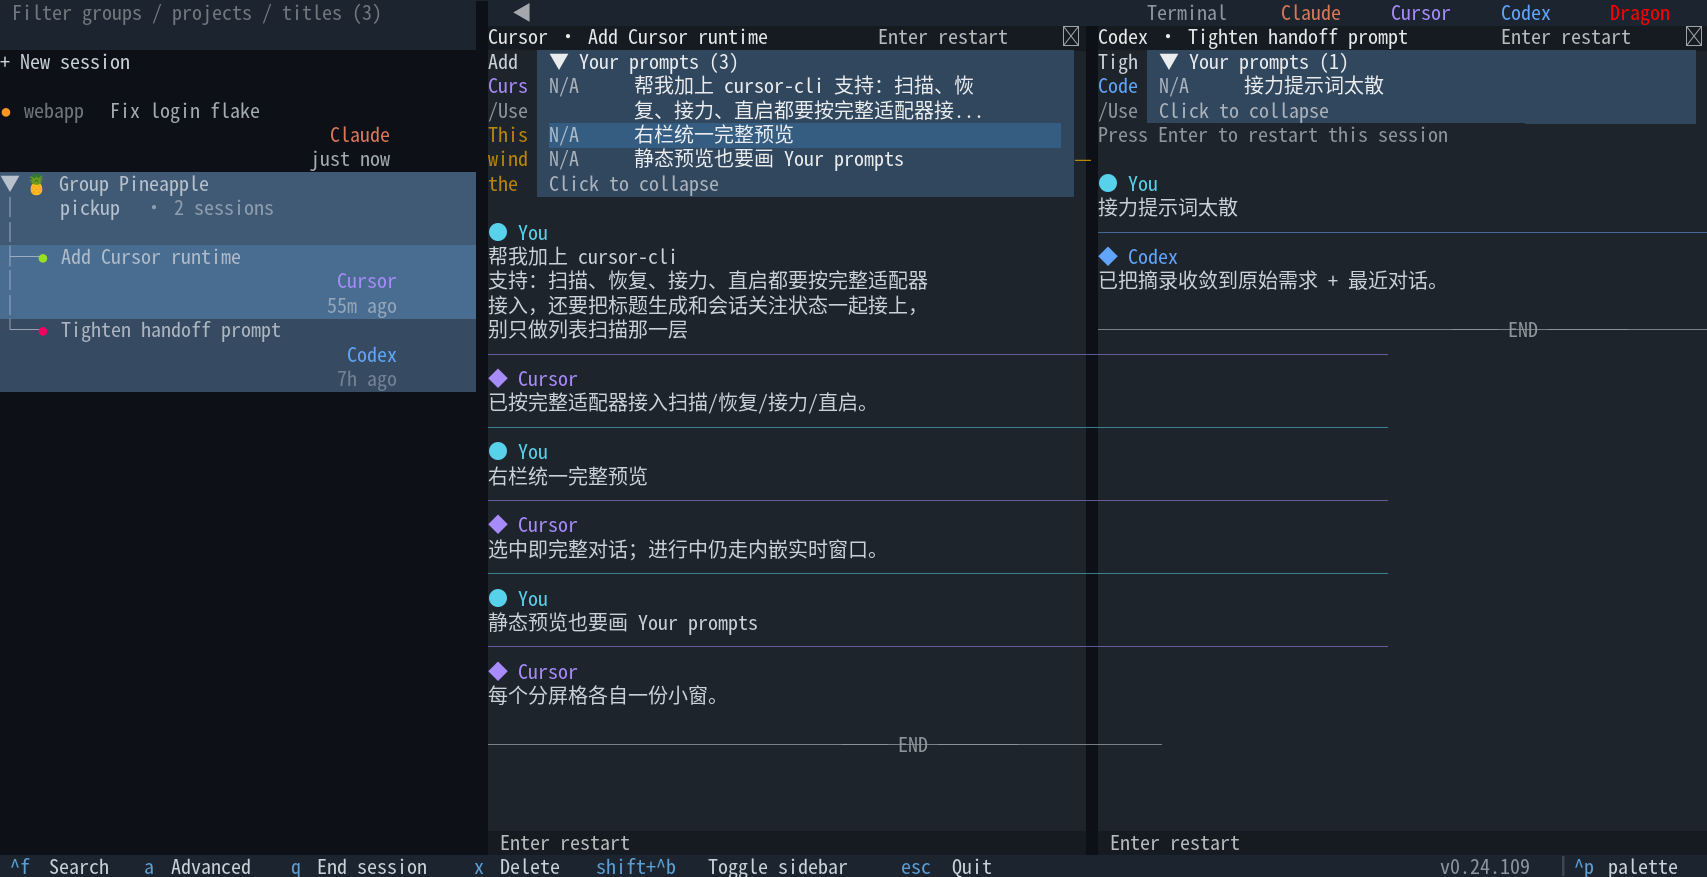
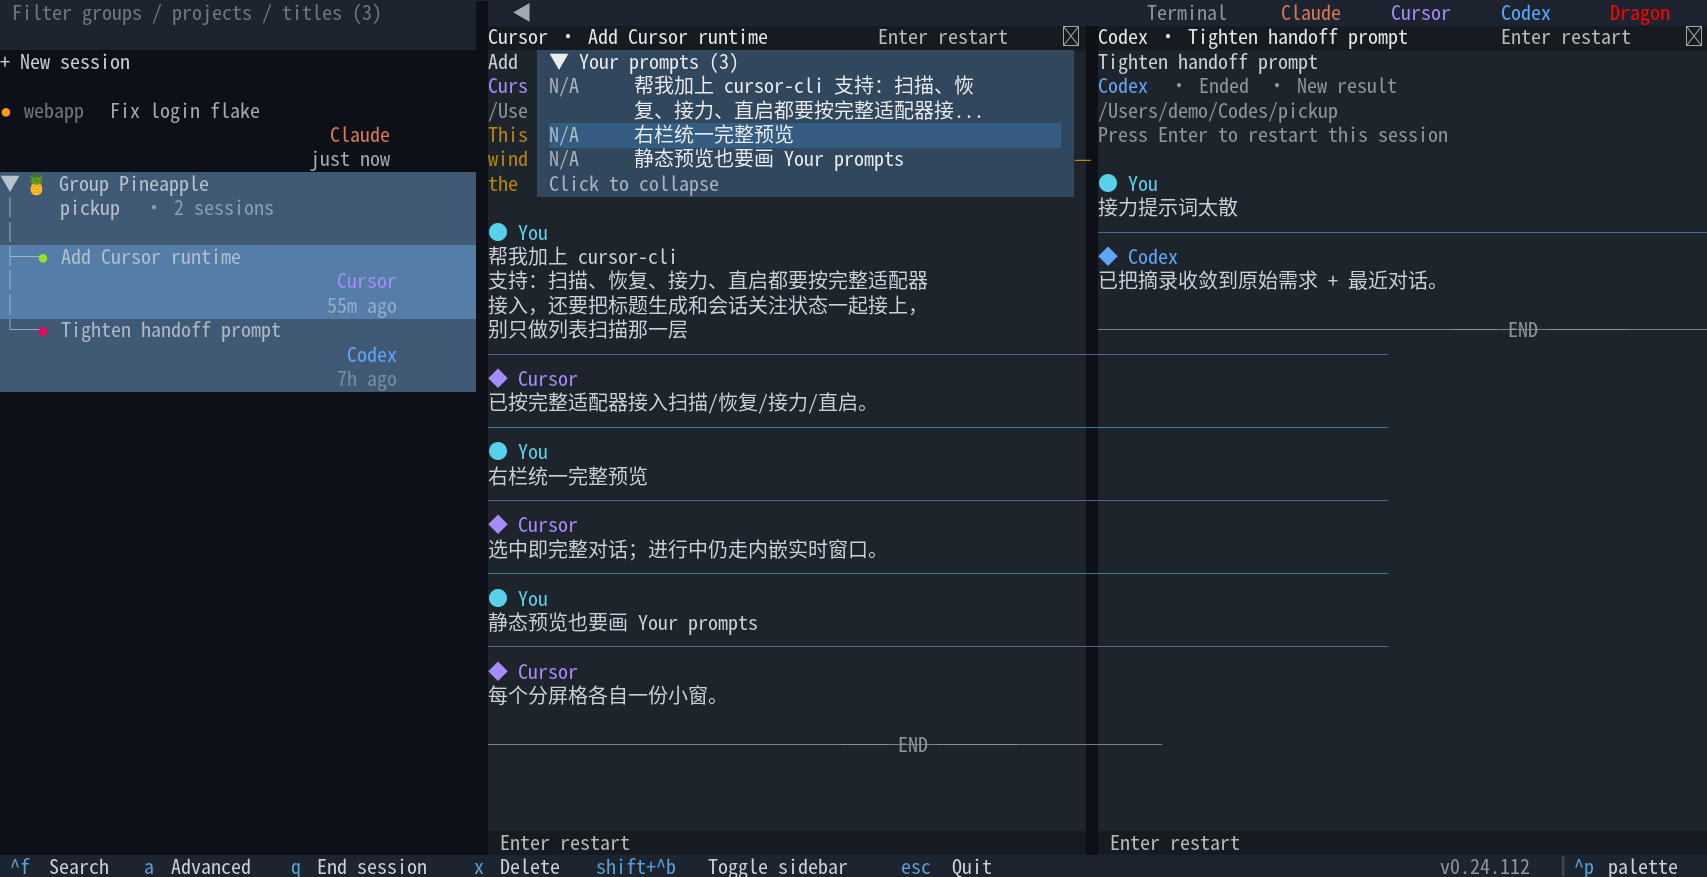
release: v0.24.113 修复 shell 分屏会话触发未注册运行时错误
- 组卡成员渲染不再为 shell 会话查运行时注册表（此前会抛 LaunchError 弹错误面板）
- get_conversation 对终端 pane 会话直接返回空历史，预览/搜索索引路径不再炸
- 搜索弹窗命中终端 pane 会话时按「终端」标签渲染，不查注册表
- 会话详情头与组删除对终端 pane 会话走专用分支
- 补 2 个回归测试：组卡含 shell 成员不渲染、搜索命中 shell 会话不炸

Changed region(s): [[0.652, 0.0308, 0.9936, 0.1539], [0.8694, 0.9852, 0.9004, 1.0]]

diff --git a/tests/test_ui.py b/tests/test_ui.py
@@ -8121,6 +8121,88 @@ class ShellPaneTests(unittest.IsolatedAsyncioTestCase):
         self.assertEqual(plan.argv, ("/bin/zsh",))
         self.assertEqual(plan.cwd, "/tmp/work")
 
+    async def test_shell_member_in_split_group_not_rendered_in_sidebar(self) -> None:
+        """shell pane 进会话组后，侧边栏组卡不得为 shell 成员渲染会话卡。
+
+        组卡成员渲染路径（`_sidebar_rows` 的 all_members → `SessionCard.render_line`
+        会查运行时注册表）此前会为 shell 会话抛 LaunchError，导致后台重建列表时
+        整屏弹错误面板；shell 成员应被过滤，只留 AI 成员。
+        """
+        store, _ = _make_store()
+        app = PickupApp(store, embed_ok=True)
+        with (
+            mock.patch("pickup.embed.host_session", return_value="pickup-shell-grp1"),
+            mock.patch("pickup.embed.is_alive", return_value=True),
+        ):
+            async with app.run_test(size=(120, 30)) as pilot:
+                await pilot.pause(delay=0.2)
+                area = await self._open_shell_pane(pilot, app, keepalive_name="pickup-shell-grp1")
+                shell_key = next(
+                    spec.session_key for spec in area.pane_specs() if spec.is_shell
+                )
+                # 再开一个 AI 会话格，形成右栏双格 → 会话组持久化会把 shell 也存进组
+                await pilot.press("enter")
+                await _wait_until(lambda: app.screen._host_pending == 0)
+                await _wait_until(lambda: len(area.pane_specs()) == 2)
+                group = app.screen._split_store.get_group(shell_key)
+                self.assertIsNotNone(group, "shell pane 应被持久化进会话组")
+                self.assertIn(shell_key, group.session_keys)
+
+                # 重建列表走组卡成员渲染路径，不得抛 LaunchError
+                await app.screen._rebuild_list()
+                await pilot.pause(delay=0.2)
+                list_view = app.screen.query_one(SessionListView)
+                rendered_keys = {
+                    pickup.session_key(s)
+                    for card in list_view.query(SessionCard)
+                    if (s := card.session) is not None
+                }
+                self.assertTrue(
+                    all(not key.startswith("shell:") for key in rendered_keys),
+                    f"组卡成员不应包含 shell 会话，实际渲染了：{rendered_keys}",
+                )
+
+    async def test_search_renders_shell_hit_without_registry_error(self) -> None:
+        """全文搜索命中 shell 会话（按标题「终端」）时，结果行渲染不得查运行时注册表。
+
+        shell 会话没有正文，只能按标题元数据命中；此前 `SearchResultRow.render`
+        对 shell 会话调 `registry.get("shell")` 直接抛 LaunchError。
+        """
+        store, _ = _make_store()
+        app = PickupApp(store, embed_ok=True)
+        with (
+            mock.patch("pickup.embed.host_session", return_value="pickup-shell-srch1"),
+            mock.patch("pickup.embed.is_alive", return_value=True),
+        ):
+            async with app.run_test(size=(120, 30)) as pilot:
+                await pilot.pause(delay=0.2)
+                await self._open_shell_pane(pilot, app, keepalive_name="pickup-shell-srch1")
+                await pilot.press("ctrl+f")
+                await _wait_until(lambda: isinstance(app.screen, FullTextSearchModal))
+                modal = app.screen
+                await _wait_until(lambda: not modal._indexing)
+                from pickup.i18n import t as _t
+
+                modal.query_one("#search-query", TextArea).load_text(
+                    _t("shell.pane_title"),
+                )
+                await pilot.pause()
+                await _wait_until(lambda: modal._debounce_timer is None)
+                await pilot.pause()
+
+                hits = {m.session["id"] for m in modal._matches}
+                shell_hits = {
+                    m.session["id"] for m in modal._matches if m.session.get("source") == "shell"
+                }
+                self.assertTrue(
+                    bool(shell_hits),
+                    f"应命中 shell 会话，实际命中：{hits}",
+                )
+                for row in modal.query(SearchResultRow):
+                    rendered = row.render().plain
+                    self.assertNotIn("LaunchError", rendered)
+                await pilot.press("escape")
+
 
 if __name__ == "__main__":
     unittest.main()

diff --git a/src/pickup/ui/main_screen.py b/src/pickup/ui/main_screen.py
@@ -780,9 +780,9 @@ class MainScreen(
 
     def _detail_header(self, session: dict) -> Text:
         import pickup
+        from pickup.models import is_shell_session
 
         title = self.store.get_title(session)
-        runtime = self.store.registry.get(str(session.get("source") or ""))
         status = t(_status_key(session))
         attention = t(_attention_key(session))
         project = str(
@@ -790,7 +790,12 @@ class MainScreen(
         )
         out = Text(title, style="bold")
         out.append("\n")
-        out.append(runtime.display_name, style=pickup.runtime_label_style(runtime.id))
+        if is_shell_session(session):
+            # 终端 pane 不挂任何运行时；详情头直接标「终端」，不查注册表。
+            out.append(t("shell.pane_title"), style="dim")
+        else:
+            runtime = self.store.registry.get(str(session.get("source") or ""))
+            out.append(runtime.display_name, style=pickup.runtime_label_style(runtime.id))
         out.append(f" · {status}", style="dim")
         out.append(f" · {attention}", style="dim")
         out.append("\n" + project, style="dim")
@@ -1598,8 +1603,13 @@ class MainScreen(
         await self._rebuild_list()
 
         def purge() -> list[tuple[str, Exception]]:
+            from pickup.models import is_shell_session
+
             failures: list[tuple[str, Exception]] = []
             for key, session, keepalive_name in members:
+                if is_shell_session(session):
+                    # 终端 pane 没有历史可抹，托管标记与分屏格已在上面的循环里撤掉。
+                    continue
                 runtime = self.store.registry.get(str(session.get("source") or ""))
                 try:
                     # 顺序不能反：进程还活着时先抹历史，运行时可能立刻又写回一份。

diff --git a/src/pickup/ui/search_modal.py b/src/pickup/ui/search_modal.py
@@ -76,12 +76,22 @@ class SearchResultRow(Widget):
 
     def render(self) -> Text:
         import pickup
+        from pickup.models import SHELL_RUNTIME_ID, is_shell_session
 
         match = self.match
         session = match.session
         width = max(10, self.size.width or 60)
-        runtime = self._store.registry.get(str(session.get("source") or ""))
-        runtime_id = getattr(runtime, "id", None) or str(session.get("source") or "")
+        if is_shell_session(session):
+            # 终端 pane 不挂运行时；搜索可能按标题命中它（如搜「终端」），
+            # 这里直接用「终端」标签渲染，不查注册表。
+            runtime_id = SHELL_RUNTIME_ID
+            runtime_name = t("shell.pane_title")
+            runtime_style = "dim"
+        else:
+            runtime = self._store.registry.get(str(session.get("source") or ""))
+            runtime_id = getattr(runtime, "id", None) or str(session.get("source") or "")
+            runtime_name = runtime.display_name
+            runtime_style = pickup.runtime_label_style(runtime_id)
         is_running = bool(session.get("keepalive_name")) or bool(session.get("live"))
 
         project_path = pickup._normalize_cwd(session.get("cwd"))
@@ -100,7 +110,7 @@ class SearchResultRow(Widget):
 
         out.append("\n")
         meta = Text()
-        meta.append(runtime.display_name, style=pickup.runtime_label_style(runtime_id))
+        meta.append(runtime_name, style=runtime_style)
         meta.append(" · ", style="dim")
         meta.append(pickup._format_relative_time(session.get("mtime") or 0), style="dim")
         if match.total_hits:

diff --git a/src/pickup/store.py b/src/pickup/store.py
@@ -14,7 +14,7 @@ from pickup.display import (
     _filter_sessions_by_query,
     _normalize_cwd,
 )
-from pickup.models import ConversationMessage, session_key
+from pickup.models import ConversationMessage, is_shell_session, session_key
 from pickup.projects import project_entries
 from pickup.runtime import RuntimeRegistry, default_registry
 
@@ -884,6 +884,10 @@ class SessionStore:
     def get_conversation(self, session: dict) -> list[ConversationMessage]:
         """按需读取并缓存选中会话的真实聊天记录；历史文件 mtime 变化（有新写入）时自动
         重读，供预览页关闭重开和停留期间的轮询刷新使用。"""
+        if is_shell_session(session):
+            # 终端 pane 没有助手历史，也不属于任何注册的运行时；右栏 HUD / 预览
+            # 会把它们当普通会话轮询，这里直接给空对话，避免一路查到底层运行时。
+            return []
         key = session_key(session)
         path = str(session.get("path") or "")
         version = self._conversation_version(session)

diff --git a/src/pickup/ui/session_list.py b/src/pickup/ui/session_list.py
@@ -1251,9 +1251,16 @@ class SessionListView(Vertical):
         group_for_key: dict[str, SplitGroup] = {}
 
         if self.group_store is not None:
+            from pickup.models import is_shell_session
+
             for group in self.group_store.ordered_groups():
+                # 终端 pane 会随分屏组合一起持久化成组员，但它不挂任何运行时；
+                # 成员卡渲染要读运行时显示名，这里必须整组过滤掉，否则列表重建
+                # 渲染组卡成员时直接抛「未注册的运行时：shell」。
                 all_members = tuple(
-                    by_key[key] for key in group.session_keys if key in by_key
+                    by_key[key]
+                    for key in group.session_keys
+                    if key in by_key and not is_shell_session(by_key[key])
                 )
                 # 历史记录缺失或会话已被明确删除后，侧边栏不显示空壳组。
                 if len(all_members) < 2:

diff --git a/src/pickup/__init__.py b/src/pickup/__init__.py
@@ -17,7 +17,7 @@ import sys as sys
 # 回归用例全挂正是这么来的。包顶层是唯一「任何用法都必经」的位置。
 os.environ.setdefault("TEXTUAL_DISABLE_KITTY_KEY", "1")
 
-__version__ = "0.24.112"
+__version__ = "0.24.113"
 
 _MODULE_EXPORTS = {
     "embed", "keepalive", "titles", "updater", "split_layout", "observe", "theme", "search",
